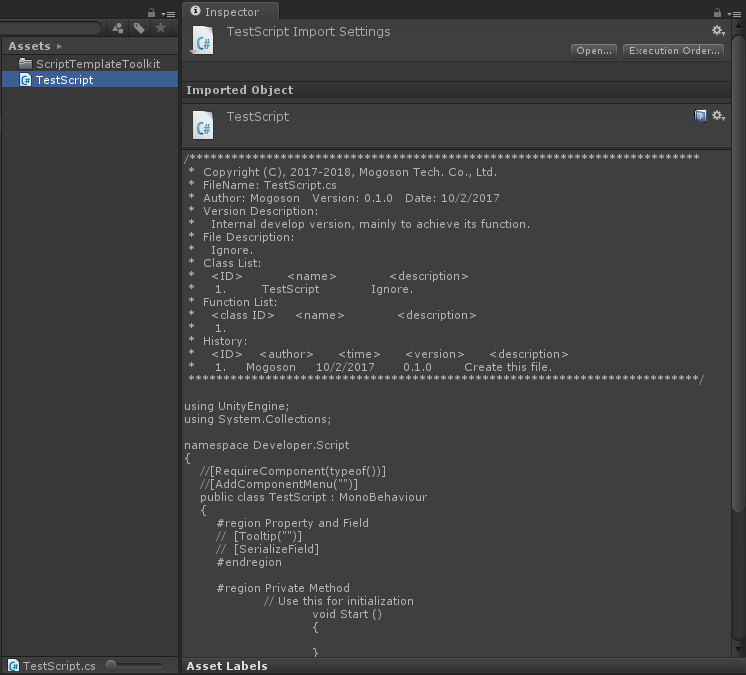
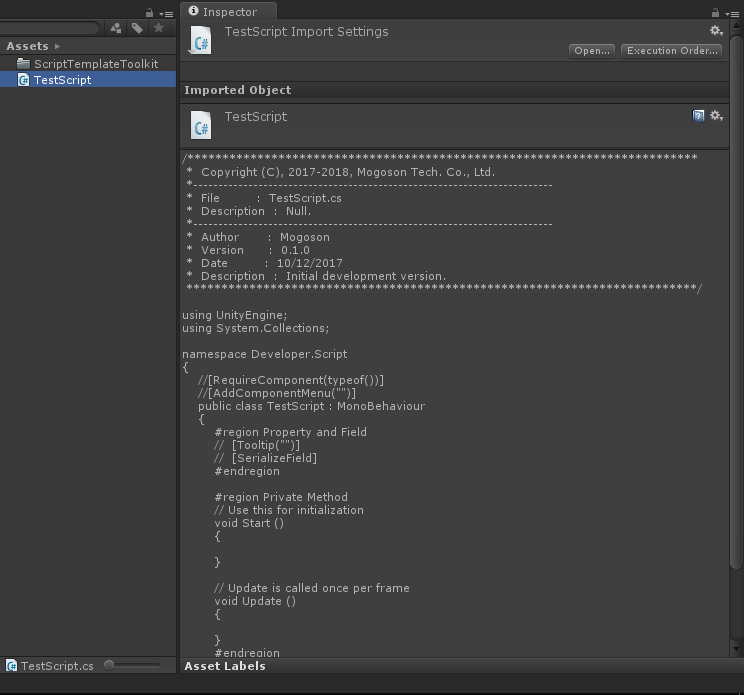
Format scripts.

diff --git a/Assets/ScriptTemplateToolkit/Editor/ScriptTemplateModifier.cs b/Assets/ScriptTemplateToolkit/Editor/ScriptTemplateModifier.cs
@@ -1,20 +1,13 @@
 /*************************************************************************
  *  Copyright (C), 2017-2018, Mogoson Tech. Co., Ltd.
- *  FileName: ScriptTemplateModifier.cs
- *  Author: Mogoson   Version: 0.1.0   Date: 8/31/2017
- *  Version Description:
- *    Internal develop version, mainly to achieve its function.
- *  File Description:
- *    Ignore.
- *  Class List:
- *    <ID>           <name>             <description>
- *     1.    ScriptTemplateModifier        Ignore.
- *  Function List:
- *    <class ID>     <name>             <description>
- *     1.
- *  History:
- *    <ID>    <author>      <time>      <version>      <description>
- *     1.     Mogoson     8/31/2017       0.1.0       Create this file.
+ *------------------------------------------------------------------------
+ *  File         :  ScriptTemplateModifier.cs
+ *  Description  :  Modifier for script template.
+ *------------------------------------------------------------------------
+ *  Author       :  Mogoson
+ *  Version      :  0.1.0
+ *  Date         :  8/31/2017
+ *  Description  :  Initial development version.
  *************************************************************************/
 
 using System;

diff --git a/Assets/ScriptTemplateToolkit/Editor/ScriptTemplateEditor.cs b/Assets/ScriptTemplateToolkit/Editor/ScriptTemplateEditor.cs
@@ -1,20 +1,13 @@
 /*************************************************************************
  *  Copyright (C), 2017-2018, Mogoson Tech. Co., Ltd.
- *  FileName: ScriptTemplateEditor.cs
- *  Author: Mogoson   Version: 0.1.0   Date: 8/31/2017
- *  Version Description:
- *    Internal develop version, mainly to achieve its function.
- *  File Description:
- *    Ignore.
- *  Class List:
- *    <ID>           <name>             <description>
- *     1.      ScriptTemplateEditor        Ignore.
- *  Function List:
- *    <class ID>     <name>             <description>
- *     1.
- *  History:
- *    <ID>    <author>      <time>      <version>      <description>
- *     1.     Mogoson     8/31/2017       0.1.0       Create this file.
+ *------------------------------------------------------------------------
+ *  File         :  ScriptTemplateEditor.cs
+ *  Description  :  Editor for script template.
+ *------------------------------------------------------------------------
+ *  Author       :  Mogoson
+ *  Version      :  0.1.0
+ *  Date         :  8/31/2017
+ *  Description  :  Initial development version.
  *************************************************************************/
 
 using System;

diff --git a/README.md b/README.md
@@ -55,4 +55,4 @@
 ![TestScript](./Attachments/TestScript.png)
 
 ## Contact
-- If you have anny questions, fell free to contact me at mogoson@qq.com.
+- If you have any questions, fell free to contact me at mogoson@qq.com.
